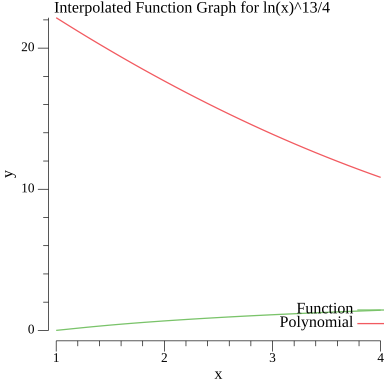
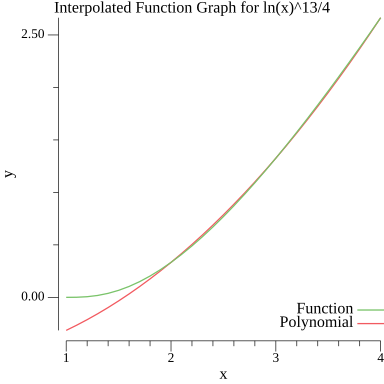
fixed the polynomial calculating in the second loop

diff --git a/LR1/graph.go b/LR1/graph.go
@@ -9,54 +9,38 @@ import (
 	"gonum.org/v1/plot/vg"
 )
 
-
 // Defines a function to be interpolated
 func f(x float64) float64 {
-	return math.Pow(math.Log(x), 12.0/11.0)
+	return math.Pow(math.Log(x), 13/4)
 }
 
 // Define global values to hold input data
-var x = []float64{10, 12, 14}
+var x = []float64{2, 3, 4}
 var y = []float64{f(x[0]), f(x[1]), f(x[2])}
-var a = 13.5
+var a = 2.5
 
-// Calculates the polynomial
-func calculatePolynomial(t float64, x []float64, y []float64) float64{
-	n := len(x)
 
-	var s float64
-	var p float64
+// Calculates the polynomial at the given point
+func calculatePolynomial(t float64, x []float64, y []float64) float64 {
+    n := len(x)
+    
+    var s float64 = 0
+    var p float64
 
-	for i := 0; i < n; i++ {
-		p = y[i]
+    for i := 0; i < n; i++ {
+        p = 1
 
-		for j := 0; j < n; j++ {
-			if i != j {
-				if x[i]-x[j] == 0 {
-					p = 0.0
-				} else {
-					p *= (t - x[j]) / (x[i] - x[j])
-				}
-			}
-			s += p
-		}
-	}
-	return s
+        for j := 0; j < n; j++ {
+            if i != j {
+                p *= (t - x[j]) / (x[i] - x[j])
+            }
+        }
+
+        s += y[i]*p
+    }
+
+    return s
 }
-
-/*
-
-x = 2, 3, 4
-y = 0.3039, 1.3575, 2.89088
-
-0.3039*((x-3)*(x-4))/((2-3)*(2-4)) + 1.3575*((x-2)*(x-3))/((3-2)*(3-4)) + 2.89088*((x-2)*(x-1))/((4-2)*(4-3))
-
-L = 0.23989x^2 + 1.38753x - 3.43072
-
-With x = 2.5, L = 
-
-*/
-
 
 
 // Creates a plot of the interpolated func
@@ -111,6 +95,7 @@ func CreatePolynomialGraph() (float64, float64){
     return polynomialA, error
 }
 
+
 // Calculates the approximation of the function
 func calculateApproximation(t float64, x []float64, y []float64) (float64, float64) {
     sumX, sumY, sumXY, sumX2 := 0.0, 0.0, 0.0, 0.0
@@ -120,11 +105,13 @@ func calculateApproximation(t float64, x []float64, y []float64) (float64, float
         sumXY += x[i] * y[i]
         sumX2 += x[i] * x[i]
     }
+
     m := (float64(len(x))*sumXY - sumX*sumY) / (float64(len(x))*sumX2 - sumX*sumX)
     b := (sumY - m*sumX) / float64(len(x))
     
     return m, b
 }
+
 
 // Creates a plot of the approximated func
 func CreateApproximationGraph() float64 {

diff --git a/LR1/gui.go b/LR1/gui.go
@@ -37,12 +37,12 @@ func SetUi(a fyne.App) {
 
 	btnPolynom := widget.NewButton("Show polynomial", func() {
 		val, err := CreatePolynomialGraph()
-		
+
 		labelPolynomial.SetText(fmt.Sprintf("%v", val))
 		labelError.SetText(fmt.Sprintf("%v", err))
 
 		img := canvas.NewImageFromFile("LR1/polynomial.png")
-		
+
 		w2.SetContent(img)
 
 		w2.Show()
